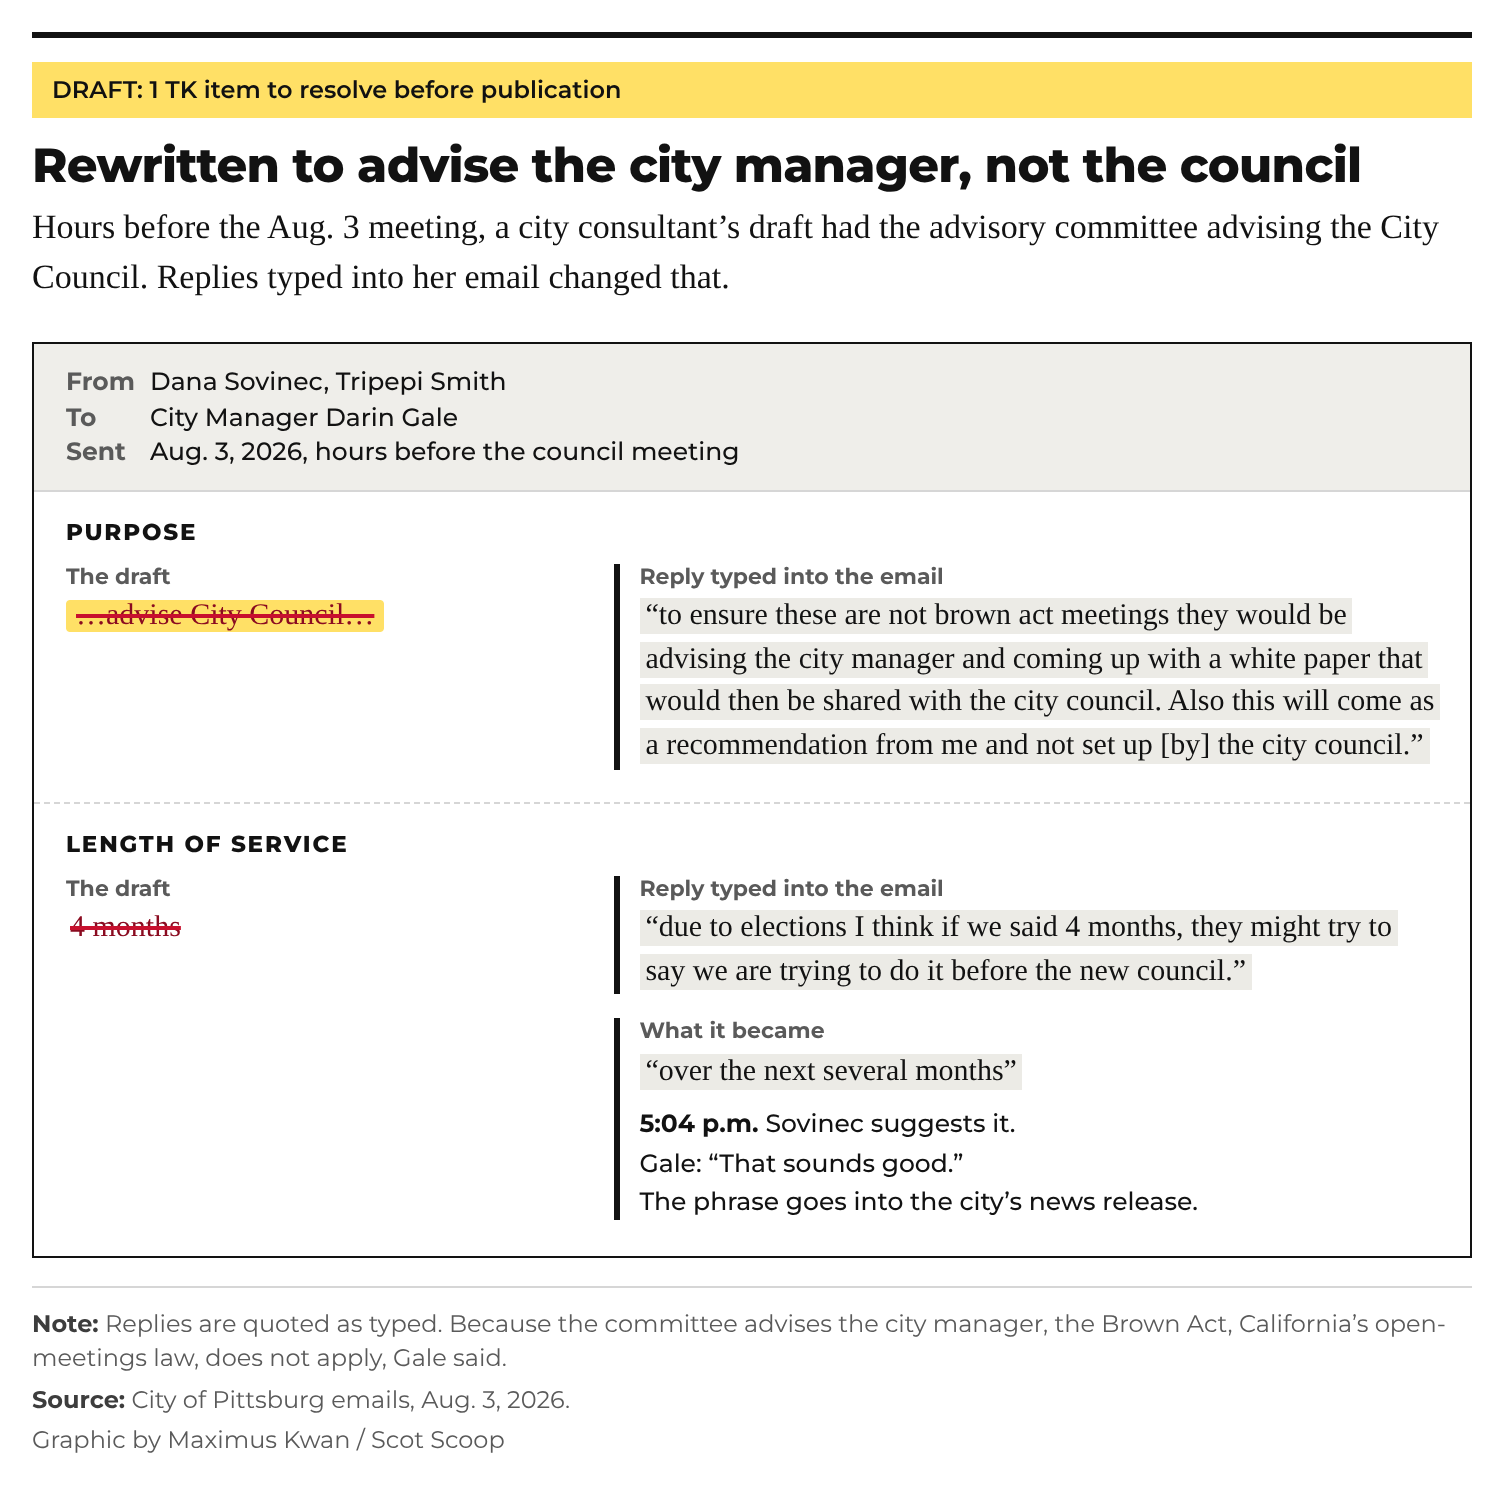
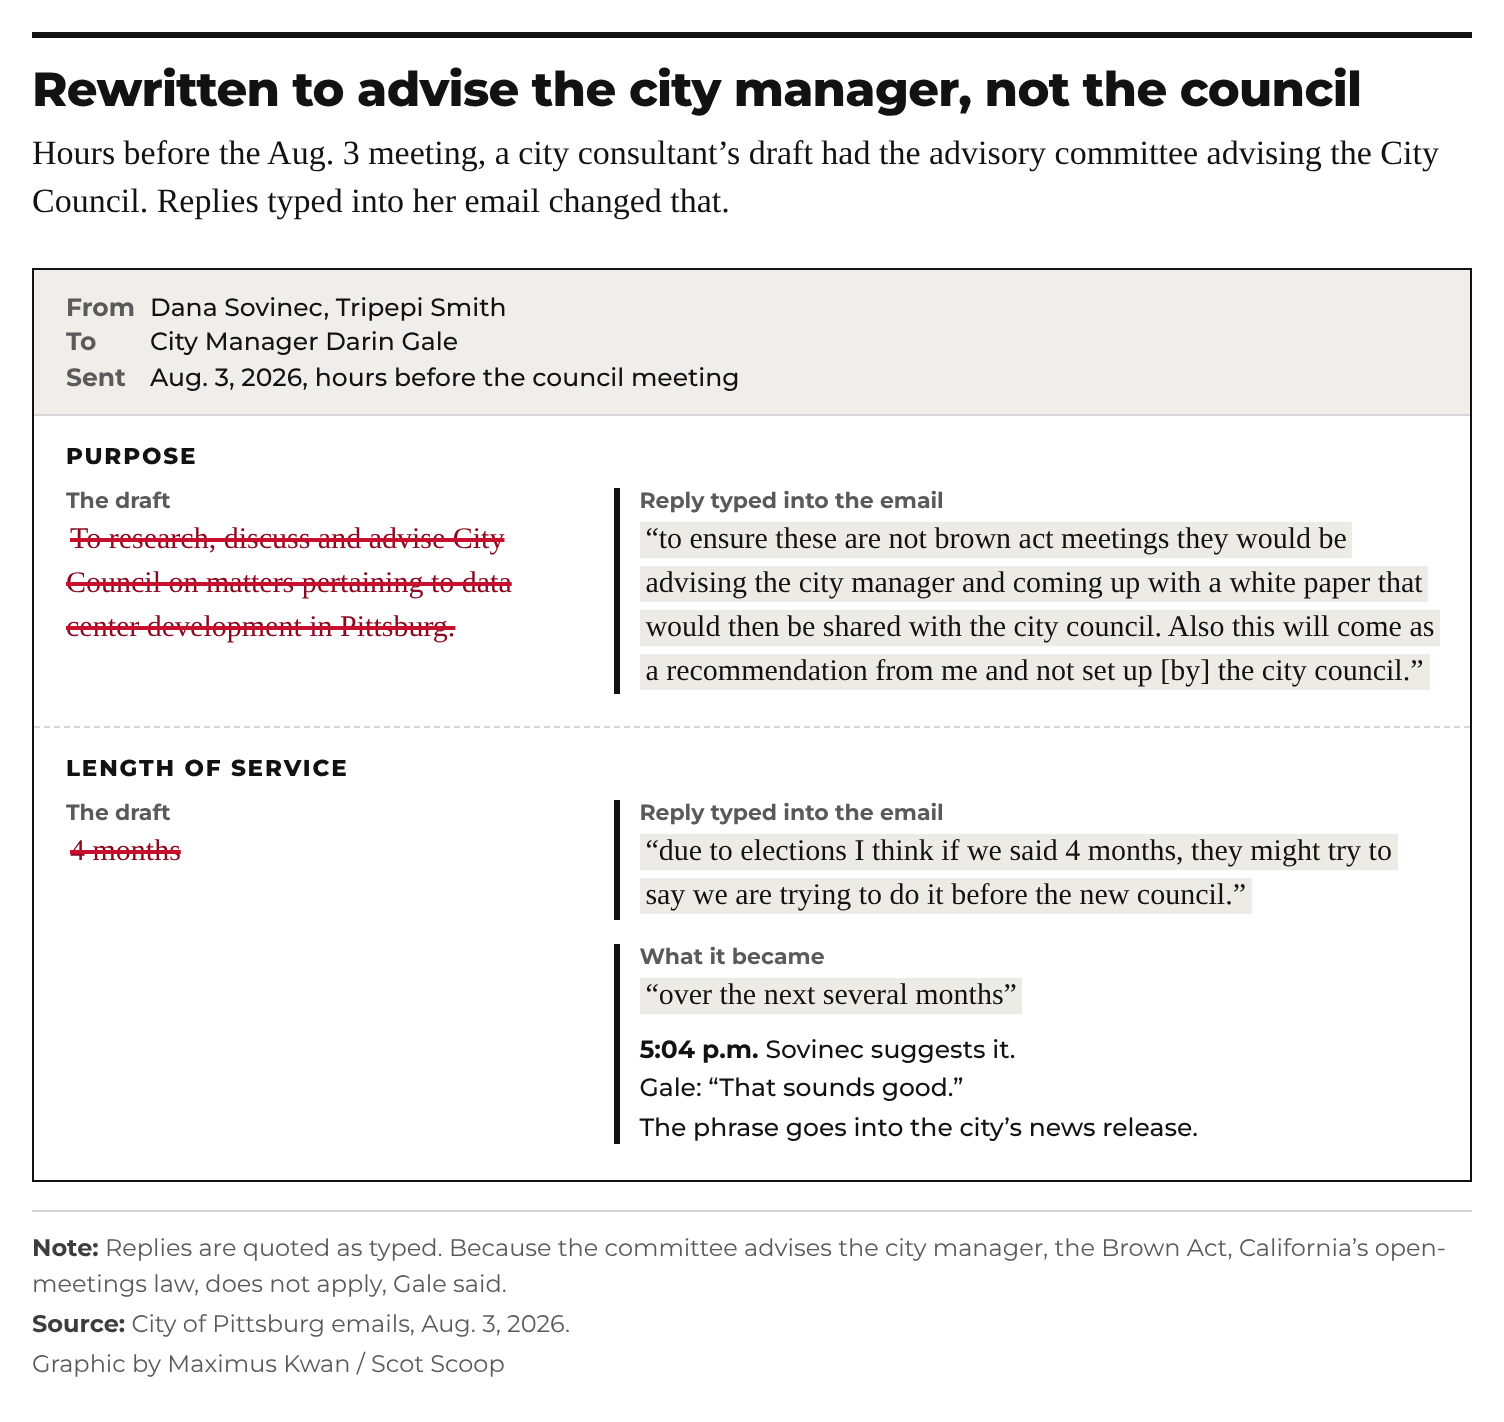
Redline: use the draft's full purpose line, clearing the TK
Claude-Session: https://claude.ai/code/session_016Gic3dbrTzcyN2QJKKvPPx

diff --git a/graphics/committee-redline/graphic.js b/graphics/committee-redline/graphic.js
@@ -46,7 +46,7 @@ export default async function draw(ctx) {
       h('p', {}, h('span', { text: 'From' }), draft.who),
       h('p', {}, h('span', { text: 'To' }), 'City Manager Darin Gale'),
       h('p', {}, h('span', { text: 'Sent' }), `${draft.when}, hours before the council meeting`)),
-    pair('purpose-draft', 'purpose-reply', true),
+    pair('purpose-draft', 'purpose-reply', false),
     pair('term-draft', 'term-reply', false, became));
 
   ctx.$('.ph-body').replaceChildren(email);

diff --git a/docs/GRAPHICS.md b/docs/GRAPHICS.md
@@ -76,7 +76,7 @@ Copy a folder in `graphics/` (the redline is the simplest), rename it, and keep 
 
 **2. Deal timeline.** It has 27 entries, from August 2017 to the Oct. 26, 2026, moratorium, with Dec. 8–16, 2025, in a day-by-day box. Each entry names its record, page included, in the CSV's `source` column. An entry links to the record when the CSV's `url` column has one. Five do now: CEQAnet, the notice of determination (two entries), AVAIO's press release and the city's moratorium release. Fill in the rest (for example, DocumentCloud links) and the links appear. Scrollama highlights the entry at mid-screen. Reduced motion leaves the highlight off.
 
-**4. Committee redline.** Only "advise City Council" is quoted from the draft's purpose line (p. 41 of the advisory committee emails), so it's shown as "…advise City Council…" and marked TK. Paste the full line into `data/committee-redline.csv` (`purpose-draft`), clear its `tk` cell and re-run the snapshot. The replies are quoted as typed, and the draft is attributed as the story attributes it.
+**4. Committee redline.** The draft's full purpose line (p. 41 of the advisory committee emails) is struck through, with the replies typed into the email beside it, quoted as typed. The draft is attributed as the story attributes it.
 
 **5. Water-use chart.** The same four estimates are shown at three scales (up to 60,000, 300,000 and 5 million gallons a day), so the small numbers stay visible as it zooms out. The golf course figure is 300 acre-feet a year (≈267,800 gallons a day), shown as "roughly 270,000". The cooling share is 41,177 of 58,407 gallons, or 70.5%, labeled "about 70%" to match the story.
 
@@ -99,5 +99,4 @@ Once they're up, put their URLs in `data/deal-timeline.csv` too.
 
 - [ ] Someone other than the builder checks every graphic against the story text (the CSVs list each number's source).
 - [ ] Test each graphic in SNO on macOS Safari, iPadOS and iOS. The water-use chart goes first, per the plan.
-- [ ] Resolve the redline's TK, then run `npm run snapshot -- committee-redline`.
 - [ ] Decide the CalEnviroScreen wording (see the map notes above).

diff --git a/README.md b/README.md
@@ -76,7 +76,7 @@ Plain-English requests work well in Claude Code: "the California zoom is too fas
 3. **Search engines:** delete the `<meta name="robots" content="noindex">` line near the top of `index.html` (marked "TK: remove at publication").
 4. **Videos and stills for the kit and the no-map version:** run `npm run record`. It needs [ffmpeg](https://ffmpeg.org) and, the first time, `npx playwright install chromium`. It writes `media/intro.mp4`, `media/stills/*.jpg`, `kit/media/intro-captioned.mp4` and `kit/media/hero.jpg` (drone photo 02). Run it last, after every text or map change.
 5. **Optional:** the exact spot photo 07 was taken from, for the pin (`popFrom` in `js/config.js`).
-6. **Graphics:** the checklist at the end of [docs/GRAPHICS.md](docs/GRAPHICS.md) (story check, Safari/iOS tests in SNO, one TK in the redline, the CalEnviroScreen wording).
+6. **Graphics:** the checklist at the end of [docs/GRAPHICS.md](docs/GRAPHICS.md) (story check, Safari/iOS tests in SNO, the CalEnviroScreen wording).
 
 ## The site and the model
 
